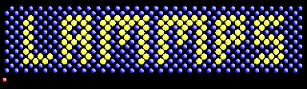
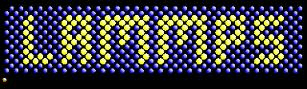
use figure and picture tags for webp

diff --git a/index.html b/index.html
@@ -93,7 +93,7 @@ title: Home
                 
                 <!-- Qwiklabs Complete Indicator -->
                 <h4 class="project-title"><i class='fab fa-js'></i> <i class='fas fa-flask'></i> <i class='fas fa-tasks'></i><br><a href="{{ site.baseurl }}/blog/qwiklabs/Userscript-for-Labelling-Completed-Qwiklabs" target="_blank">Qwiklabs Complete Indicator</a></h4>
-                <img alt="Qwiklabs Complete Indicator" src="https://github.com/chriskyfung/qwiklabs-complete-indicator/raw/master/demo-image2.png"/>
+                {% include picture.html img="qwiklabs-complete-indicator-demo2" ext="png" alt="Qwiklabs Complete Indicator" source="projects" %}
                 
                 <!-- AutoFetcher for Saving IG Stories to GDrive -->
                 <h4 class="project-title"><i class="fab fa-instagram"></i>  <i class='fas fa-cloud-download-alt'></i> <i class='fab fa-google-drive'></i><br><a href="https://chriskyfung.github.io/AutoFetcher-IG-Stories-to-GDrive/" target="_blank">AutoFetcher for Saving IG Stories to GDrive</a></h4>
@@ -106,12 +106,12 @@ title: Home
                 <!-- Amazon Associates Ads Loader for Tumblr -->
                 <h4 class="project-title"><i class='fab fa-js'></i> <i class='fab fa-amazon'></i> <i class='fab fa-tumblr-square'></i><br><a href="https://github.com/chriskyfung/amzn_assoc_loader_for_tumblr" target="_blank">Amazon Associates Ads Loader for Tumblr</a></h4>
                 <p>A converter to change an Amazon Associates Ads script to an HTML tag</p>
-                <a href="https://github.com/chriskyfung/amzn_assoc_loader_for_tumblr" target="_blank"><img src="/images/projects/amzn_assoc_loader_for_tumblr.jpg" width="700"></a>
-                
+                {% include picture.html img="amzn_assoc_loader_for_tumblr" ext="jpg" alt="Amazon Associates Ads Loader for Tumblr" source="projects" %}
+
                 <!-- MDX LabPanel -->
                 <h4 class="project-title"><i class='fas fa-wrench'></i> <i class='fas fa-tachometer-alt'></i><br><a href="https://www.craftweeks.com/software/mdxlabpanel" target="_blank">MDX LabPanel</a></h4>
                 <p>GUI Control Panel for Roland MODELA MDX-15/20 CNC Machine</p>
-                <a href='https://www.craftweeks.com/software/mdxlabpanel' target="_blank"><img src='https://github.com/Craftweeks/modela_mdx-15_20_control_panel_scilab/raw/master/Screenshot%20of%20v0.4.1.png' alt='image'></a>
+                {% include picture.html img="screenshot-of-mdxlabpanel-v04-a-control-panel-roland-modela-mdx-1520" ext="png" alt="MDX LabPanel" source="projects" %}
                 <br>Fig. Screenshot of v0.4
             </section>
         </section>

diff --git a/_layouts/post.html b/_layouts/post.html
@@ -31,7 +31,7 @@ post_class: post-template
                         {% assign sortedCategories = page.categories | sort %}
                         {% for category in sortedCategories %}
                         <li>
-                         <a href="{{ site.baseurl }}/category/{{ category | slugify }}/">{{ category }}</a>
+                         <a href="/category/{{ category | slugify }}/">{{ category }}</a>
                         </li>
                         {% endfor %}
                     </ul>
@@ -46,7 +46,16 @@ post_class: post-template
             <!-- Post Featured Image -->
             {% if page.hideimage %}
             {% else %}
-                {% if page.image %}<img class="featured-image img-fluid" src="{{ site.baseurl }}/{{ page.image }}" alt="{{ page.title }}">{% endif %}
+            {% if page.image %}
+            {% unless page.image.hide %}
+            <picture>
+                {% unless page.image.ext == "svg" %}
+                <source type="image/webp" srcset="/images/posts/{{ page.image.path }}.webp" >
+                {% endunless %}
+                <img class="featured-image img-fluid" src="/images/posts/{{ page.image.path }}.{{ page.image.ext }}" alt="{{ page.title }}">
+            </picture>
+            {% endunless %}
+            {% endif %}
             {% endif %}
             <!-- End Featured Image -->
 

diff --git a/_includes/picture.html b/_includes/picture.html
@@ -1,0 +1,26 @@
+{% assign img = include.img %}
+<figure {% if include.class %}class="{{ include.class }}"{% endif %}>
+    <picture>
+        {% if include.source == "assets" %}
+            {% unless include.ext == "svg" %}
+            <source type="image/webp" srcset="/assets/images/{{ img }}.webp" >
+            {% endunless %}
+            <img src="/assets/images/{{ img }}.{{ include.ext }}" alt="{{ include.alt }}" />
+        {% elsif include.source == "external" %}
+            <img src="{{ img }}.{{ include.ext }}" alt="{{ include.alt }}" />
+        {% elsif include.source == "projects" %}
+            {% unless include.ext == "svg" %}
+            <source type="image/webp" srcset="/images/projects/{{ img }}.webp" >
+            {% endunless %}
+            <img src="/images/projects/{{ img }}.{{ include.ext }}" alt="{{ include.alt }}" />
+        {% else %}
+            {% unless include.ext == "svg" %}
+            <source type="image/webp" srcset="/images/posts/{{ img }}.webp" >
+            {% endunless %}
+            <img src="/images/posts/{{ img }}.{{ include.ext }}" alt="{{ include.alt }}" />
+        {% endif %}
+    </picture>
+    {% if include.caption %}
+        <figcaption>{{ include.caption }}</figcaption>
+    {% endif %}
+</figure>

diff --git a/_layouts/default.html b/_layouts/default.html
@@ -243,17 +243,17 @@ License: https://www.wowthemes.net/freebies-license/
 <!-- JavaScript
 ================================================== -->
     
-<script async src="{{ site.baseurl }}/assets/js/jquery.min.js"></script>
+<script async src="/assets/js/jquery.min.js"></script>
     
 <script async defer src="https://cdnjs.cloudflare.com/ajax/libs/tether/1.4.0/js/tether.min.js" integrity="sha384-DztdAPBWPRXSA/3eYEEUWrWCy7G5KFbe8fFjk5JAIxUYHKkDx6Qin1DkWx51bBrb" crossorigin="anonymous"></script>
     
 <script async defer src="https://maxcdn.bootstrapcdn.com/bootstrap/4.0.0-alpha.6/js/bootstrap.min.js" integrity="sha384-vBWWzlZJ8ea9aCX4pEW3rVHjgjt7zpkNpZk+02D9phzyeVkE+jo0ieGizqPLForn" crossorigin="anonymous"></script>
     
-<script async defer src="{{ site.baseurl }}/assets/js/ie10-viewport-bug-workaround.js"></script>
+<script async defer src="/assets/js/ie10-viewport-bug-workaround.js"></script>
     
-<script async defer type='text/javascript' src='{{ site.baseurl }}/assets/js/masonry.pkgd.min.js'></script>
+<script async defer type='text/javascript' src='/assets/js/masonry.pkgd.min.js'></script>
     
-<script async defer src="{{ site.baseurl }}/assets/js/theme.js"></script>
+<script async defer src="/assets/js/theme.js"></script>
     
 </body>
     

diff --git a/_layouts/post-left-sidebar.html b/_layouts/post-left-sidebar.html
@@ -52,7 +52,16 @@ post_class: post-template
             <!-- Post Featured Image -->
             {% if page.hideimage %}
             {% else %}
-            {% if page.image %}<img class="featured-image img-fluid" src="{{ site.baseurl }}/{{ page.image }}" alt="{{ page.title }}">{% endif %}
+            {% if page.image %}
+            {% unless page.image.hide %}
+            <picture>
+                {% unless page.image.ext == "svg" %}
+                <source type="image/webp" srcset="/images/posts/{{ page.image.path }}.webp" >
+                {% endunless %}
+                <img class="featured-image img-fluid" src="/images/posts/{{ page.image.path }}.{{ page.image.ext }}" alt="{{ page.title }}">
+            </picture>
+            {% endunless %}
+            {% endif %}
             {% endif %}
             <!-- End Featured Image -->
 

diff --git a/_includes/postbox.html b/_includes/postbox.html
@@ -11,7 +11,14 @@ License: https://www.wowthemes.net/freebies-license/
 <div class="col-md-6 grid-item">
 <div class="card">
     <a href="{{ post.url | absolute_url }}">
-        {% if post.image %} <img class="img-fluid" src="{{ site.baseurl }}/{{ post.image }}" alt="{{ post.title }}"> {% endif %}
+        {% if post.image %} 
+            <picture>
+                {% unless post.image.ext == "svg" %}
+                <source type="image/webp" srcset="/images/posts/{{ post.image.path }}.webp" >
+                {% endunless %}
+                <img class="img-fluid" src="/images/posts/{{ post.image.path }}.{{ post.image.ext }}" alt="{{ post.title }}">
+            </picture>
+         {% endif %}
     </a>
     <div class="card-block">
         <h2 class="card-title"><a href="{{ post.url | absolute_url }}">{{ post.title }}</a></h2>

diff --git a/_includes/datatables.html b/_includes/datatables.html
@@ -1,0 +1,26 @@
+<link rel="stylesheet" type="text/css" href="https://cdn.datatables.net/1.10.20/css/jquery.dataTables.css">
+
+<script src="/assets/js/jquery.min.js"></script>
+
+<script async defer type="text/javascript" charset="utf8" src="https://cdn.datatables.net/1.10.20/js/jquery.dataTables.js"></script>
+
+<script>
+jQuery(document).ready(function($){
+    $('#quest-list').DataTable();
+    $('#lab-list').DataTable();
+} );
+</script>
+
+<style>
+    .dataTables_wrapper {
+        font-size: small;
+    }
+    .dataTables_wrapper a {
+        box-shadow: unset;
+        color: #6FD350;
+    }
+
+    .dataTables_wrapper a:hover {
+        box-shadow: unset;
+    }
+</style>

diff --git a/_includes/sidebar.html b/_includes/sidebar.html
@@ -63,7 +63,9 @@ License: https://www.wowthemes.net/freebies-license/
 
         <div class="sidebar-section">
             <h5><span>Related Sites</span></h5>
-            <a href="https://craftweeks.com/en/" target="_blank"><img src="{{ site.baseurl }}/assets/images/craftweeks-logo-with-black-title-transparent-bg-200x67.png" alt="Craftweeks logo" title="Craftweeks - Make Modern Crafts with Digital Tools"></a>
+            <a href="https://craftweeks.com/en/" target="_blank">
+                {% include picture.html img="craftweeks-logo-with-black-title-transparent-bg-200x67" ext="png" alt="Craftweeks logo" source="assets" %}
+            </a>
         </div>
         
 </div>

diff --git a/_includes/featuredbox.html b/_includes/featuredbox.html
@@ -12,7 +12,7 @@ License: https://www.wowthemes.net/freebies-license/
     <div class="row">
         <div class="col-md-5 wrapthumbnail">
             <a href="{{ post.url | absolute_url }}">
-            <div class="thumbnail" style="background-image:url({{ site.baseurl }}/{{ post.image }});">
+            <div class="thumbnail" style="background-image:url(/images/posts/{{ post.image.path }}.{{ post.image.ext }});">
             </div>
             </a>
         </div>

diff --git a/_includes/featuredlist.html b/_includes/featuredlist.html
@@ -5,7 +5,7 @@
     <div class="row">
         <div class="col-md-5 wrapthumbnail">
             <a href="{{ post.url | absolute_url }}">
-            <div class="thumbnail" style="background-image:url({{ site.baseurl }}/{{ post.image }});">
+            <div class="thumbnail" style="background-image:url(/images/posts/{{ post.image.path }}.{{ post.image.ext }});">
             </div>
             </a>
         </div>

diff --git a/_sass/main.scss b/_sass/main.scss
@@ -76,6 +76,18 @@
   h3, h4 {
     margin-top: 3rem;
   }
+  del {
+    color: #999;
+    text-decoration-color: #f05f70;
+    a {
+      box-shadow: none;
+      border-bottom: 1px solid #ddd;
+      text-decoration: inherit;
+    }
+  }  
+  figure.shadow-none img {
+    box-shadow: none;
+  }
 }
 
 ul.tags.rounded-tags {

diff --git a/_sass/_syntax.scss b/_sass/_syntax.scss
@@ -1,6 +1,6 @@
 
 .highlight {
-	pre { background-color: #333; color: #fff; }
+	pre { background-color: #333; color: #fff; white-space: pre-wrap; }
 	.hll { background-color: #333333 }
 	.c { color: #008800; font-style: italic; background-color: #0f140f } /* Comment */
 	.err { color: #ffffff } /* Error */
